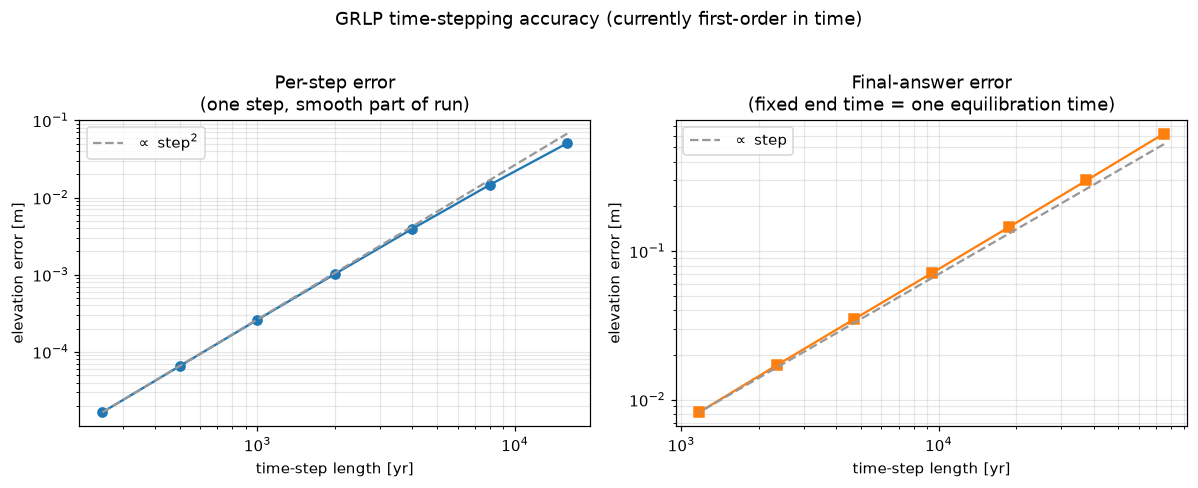
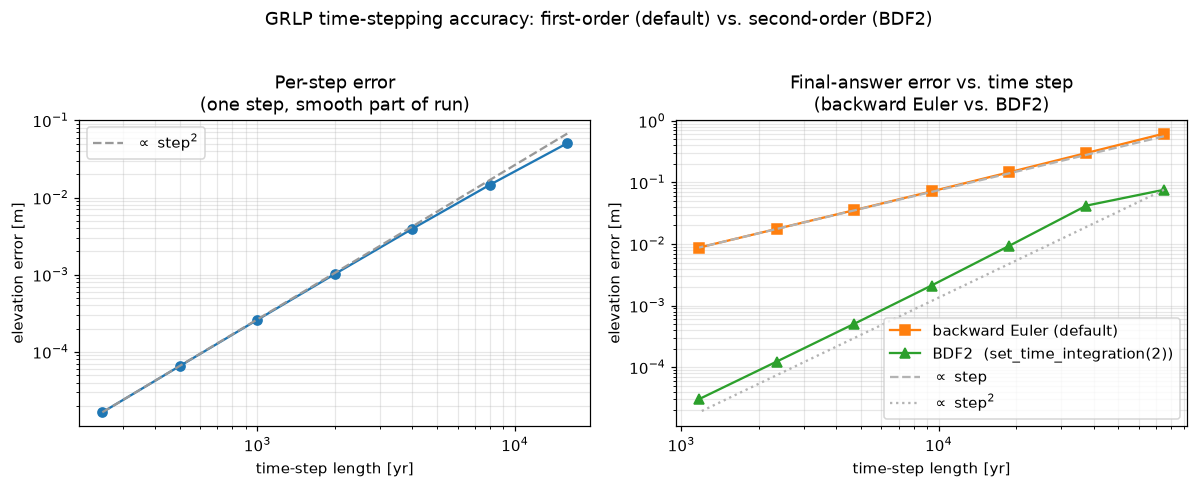
Advertise BDF2 in the accuracy docs (backward Euler vs BDF2)
The Numerical accuracy page now presents BDF2 as an available opt-in
(set_time_integration(2)) rather than future work: the final-answer figure panel
compares backward Euler (proportional to step) with BDF2 (proportional to step^2,
far smaller at large steps), and the prose shows how to select it and what it
buys. Backward Euler remains the default. Regenerated docs/_static/timestep_accuracy.png.

diff --git a/docs/accuracy_figure.py b/docs/accuracy_figure.py
@@ -62,9 +62,10 @@ def per_step_error(step_years):
     return np.max(np.abs(one.z - ref.z))
 
 
-def final_answer_error(n_steps, T, z_ref):
+def final_answer_error(n_steps, T, z_ref, order=1):
     lp = _steady()
     lp.set_uplift_rate(UPLIFT)
+    lp.set_time_integration(order)   # 1 = backward Euler, 2 = BDF2
     lp.evolve_threshold_width_river(nt=n_steps, dt=T / n_steps)
     return np.max(np.abs(lp.z - z_ref))
 
@@ -80,11 +81,13 @@ def main():
     T = lp.equilibration_time
     ref = _steady()
     ref.set_uplift_rate(UPLIFT)
+    ref.set_time_integration(2)          # BDF2 fine reference = the "truth"
     ref.evolve_threshold_width_river(nt=4096, dt=T / 4096)
     z_ref = ref.z.copy()
     nsB = [4, 8, 16, 32, 64, 128, 256]
     stepsB = np.array([T / n / YEAR for n in nsB])
-    glob = np.array([final_answer_error(n, T, z_ref) for n in nsB])
+    glob_be = np.array([final_answer_error(n, T, z_ref, order=1) for n in nsB])
+    glob_bdf2 = np.array([final_answer_error(n, T, z_ref, order=2) for n in nsB])
 
     fig, ax = plt.subplots(1, 2, figsize=(11, 4.3))
     ax[0].loglog(stepsA, locA, "o-", color="C0")
@@ -96,17 +99,22 @@ def main():
     ax[0].legend()
     ax[0].grid(True, which="both", alpha=0.3)
 
-    ax[1].loglog(stepsB, glob, "s-", color="C1")
-    ax[1].loglog(stepsB, glob[-1] * (stepsB / stepsB[-1]) ** 1, "--", color="0.6",
-                 label=r"$\propto$ step")
-    ax[1].set_title("Final-answer error\n(fixed end time = one equilibration time)")
+    ax[1].loglog(stepsB, glob_be, "s-", color="C1",
+                 label="backward Euler (default)")
+    ax[1].loglog(stepsB, glob_bdf2, "^-", color="C2",
+                 label="BDF2  (set_time_integration(2))")
+    ax[1].loglog(stepsB, glob_be[-1] * (stepsB / stepsB[-1]) ** 1, "--",
+                 color="0.7", label=r"$\propto$ step")
+    ax[1].loglog(stepsB, glob_bdf2[0] * (stepsB / stepsB[0]) ** 2, ":",
+                 color="0.7", label=r"$\propto$ step$^2$")
+    ax[1].set_title("Final-answer error vs. time step\n(backward Euler vs. BDF2)")
     ax[1].set_xlabel("time-step length [yr]")
     ax[1].set_ylabel("elevation error [m]")
     ax[1].legend()
     ax[1].grid(True, which="both", alpha=0.3)
 
-    fig.suptitle("GRLP time-stepping accuracy (currently first-order in time)",
-                 y=1.02)
+    fig.suptitle("GRLP time-stepping accuracy: first-order (default) vs. "
+                 "second-order (BDF2)", y=1.02)
     fig.tight_layout()
 
     out = os.path.join(_here, "_static", "timestep_accuracy.png")

diff --git a/docs/accuracy.md b/docs/accuracy.md
@@ -1,10 +1,10 @@
 # Numerical accuracy: time stepping
 
-GRLP integrates the sediment-conservation equation with a semi-implicit scheme
-that is **first-order in time** and second-order in space. "First-order in time"
-has a precise, practical meaning, and this page shows what it is — and why it
-motivates the planned move to a second-order-in-time scheme
-([issue #16](https://github.com/MNiMORPH/GRLP/issues/16)).
+GRLP integrates the sediment-conservation equation with a semi-implicit scheme.
+By default it is **first-order in time** (and second-order in space); an optional
+**second-order-in-time** scheme (BDF2) is available with
+`set_time_integration(2)`. This page shows what "first-order in time" means in
+practice, and how much the second-order option buys you.
 
 ## How the accuracy is measured
 
@@ -19,12 +19,13 @@ comparison would be empty. The same setup is checked automatically by
 `docs/accuracy_figure.py`.
 
 ```{figure} _static/timestep_accuracy.png
-:alt: Per-step error grows like step-squared; final-answer error grows like step.
+:alt: Backward-Euler final-answer error grows like step; BDF2 like step-squared.
 :width: 100%
 
 Elevation error as the time step lengthens, on log–log axes. **Left:** the error
-from a single step, measured in a smoothly-evolving part of the run. **Right:**
-the error in the final profile after a whole run to a fixed end time.
+from a single step, measured in a smoothly-evolving part of the run. **Right:** the
+error in the final profile after a whole run to a fixed end time, for backward
+Euler (default, ∝ step) and the optional BDF2 scheme (∝ step²).
 ```
 
 ## What the figure says
@@ -40,16 +41,18 @@ that grows like **Δt²**:
 
 Double the step → roughly *quadruple* the error in that step.
 
-**Final answer (right).** Over a whole run to a fixed end time, the error in the
-final profile grows like **Δt**:
+**Final answer (right).** Over a whole run to a fixed end time, the
+**backward-Euler** (default) error in the final profile grows like **Δt**:
 
-| step length | error in final profile |
+| step length | error in final profile (backward Euler) |
 |---|---|
 | ~1,200 yr | ~0.008 m |
 | ~9,400 yr | ~0.07 m |
 | ~75,000 yr | ~0.6 m |
 
-Double the step → roughly *double* the final error.
+Double the step → roughly *double* the final error. The optional **BDF2** scheme
+(green curve) instead grows like Δt² — far smaller, especially at large steps
+(see [below](#second-order-in-time-bdf2-opt-in)).
 
 **Why the two differ by one power.** A single step's error is quadratic, but a
 smaller step means proportionally *more* steps, so the little per-step errors
@@ -60,21 +63,34 @@ length. That linear-in-Δt behaviour *is* "first-order in time."
 
 ## Choosing a time step
 
-Because the final error is proportional to Δt, halving the step halves the error
-(and doubles the cost). Pick Δt from the accuracy you need relative to the
-elevation changes you are resolving; for the transient above, steps of a few
-thousand years keep the final error at the centimetre level.
+With backward Euler the final error is proportional to Δt, so halving the step
+halves the error (and doubles the cost). Pick Δt from the accuracy you need
+relative to the elevation changes you are resolving; for the transient above,
+steps of a few thousand years keep the final error at the centimetre level. For
+transient runs where that becomes expensive, the **BDF2** option below reaches the
+same accuracy at much larger steps.
 
-## Why second order (motivation for issue #16)
+## Second order in time: BDF2 (opt-in)
 
 First order ties accuracy to cost tightly: to cut the final error by 10×, you
-must cut Δt by 10× — ten times as many steps. A **second-order-in-time** scheme
-would make the final error scale like Δt² instead of Δt, so cutting the error
-10× would need Δt smaller by only ~√10 ≈ 3×. Equivalently, for a target accuracy
-it permits a substantially larger step — roughly an order of magnitude — and so
-much cheaper transient runs, with no loss of fidelity.
+must cut Δt by 10× — ten times as many steps. GRLP therefore offers an optional
+**second-order-in-time** scheme, **BDF2**, selected with
 
-This page is the benchmark that motivates that work. When a second-order option
-lands, rerunning `docs/accuracy_figure.py` should bend the right-hand panel from
-a slope of 1 (∝ step) toward 2 (∝ step²), and the convergence-rate assertion in
-`tests/test_time_accuracy.py` becomes its acceptance test.
+```python
+lp.set_time_integration(2)      # 1 = backward Euler (default), 2 = BDF2
+```
+
+(also available on `Network`). BDF2 makes the final error scale like **Δt²**
+instead of Δt — the green curve in the figure above. So for a target accuracy you
+can take a substantially larger step (roughly an order of magnitude) and run
+transients much more cheaply with no loss of fidelity; equivalently, at the same
+step BDF2 is far more accurate (about 7× smaller final error at a 75,000-yr step
+in the figure, and the gap widens as steps grow).
+
+Backward Euler remains the **default**, so existing results are unchanged. BDF2 is
+[L-stable](https://en.wikipedia.org/wiki/L-stability) — it damps sharp transients
+rather than ringing — bootstraps its first step with backward Euler, and reaches
+its second-order rate once the semi-implicit iteration is converged (a few
+iterations for the default physics). Steady states are independent of the time
+step, so this only affects the *path* through time. See
+[MNiMORPH/GRLP#16](https://github.com/MNiMORPH/GRLP/issues/16).
